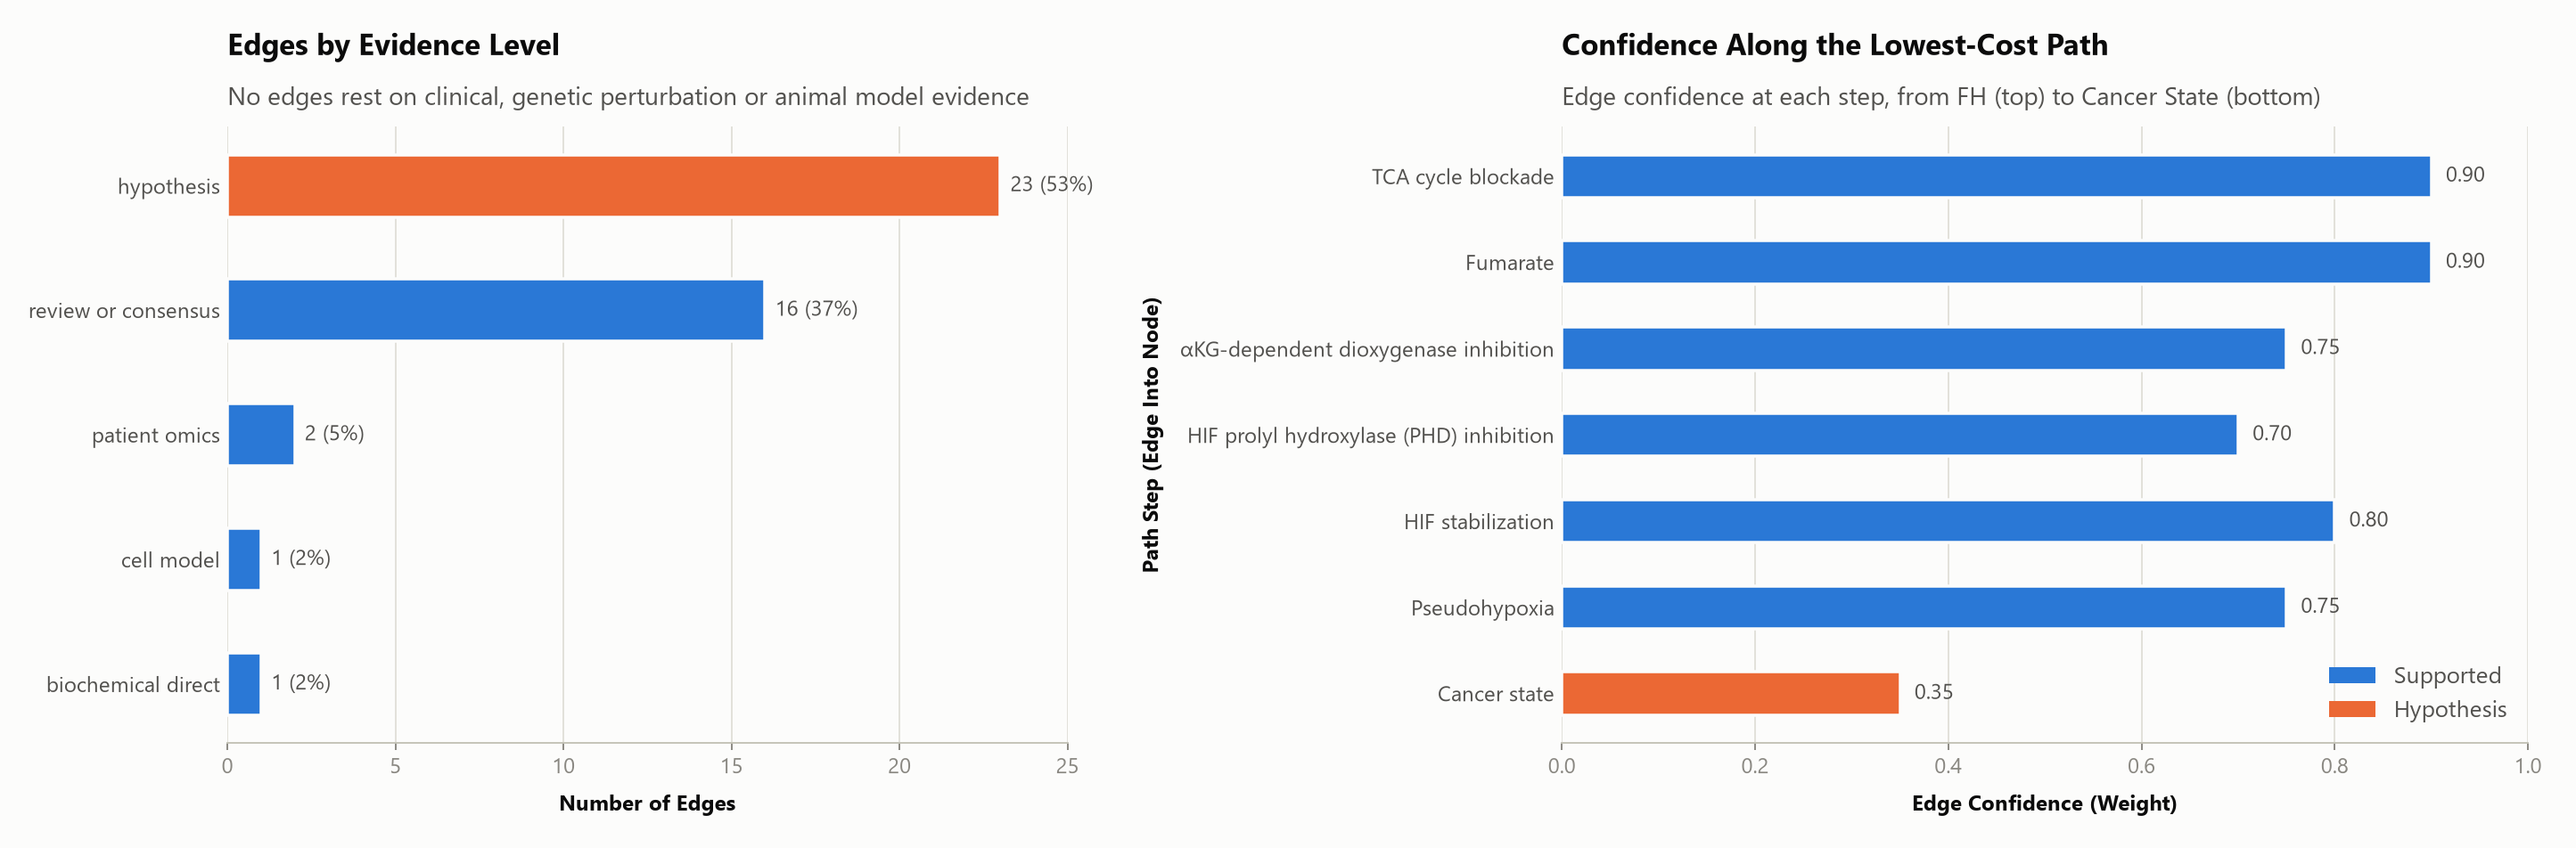
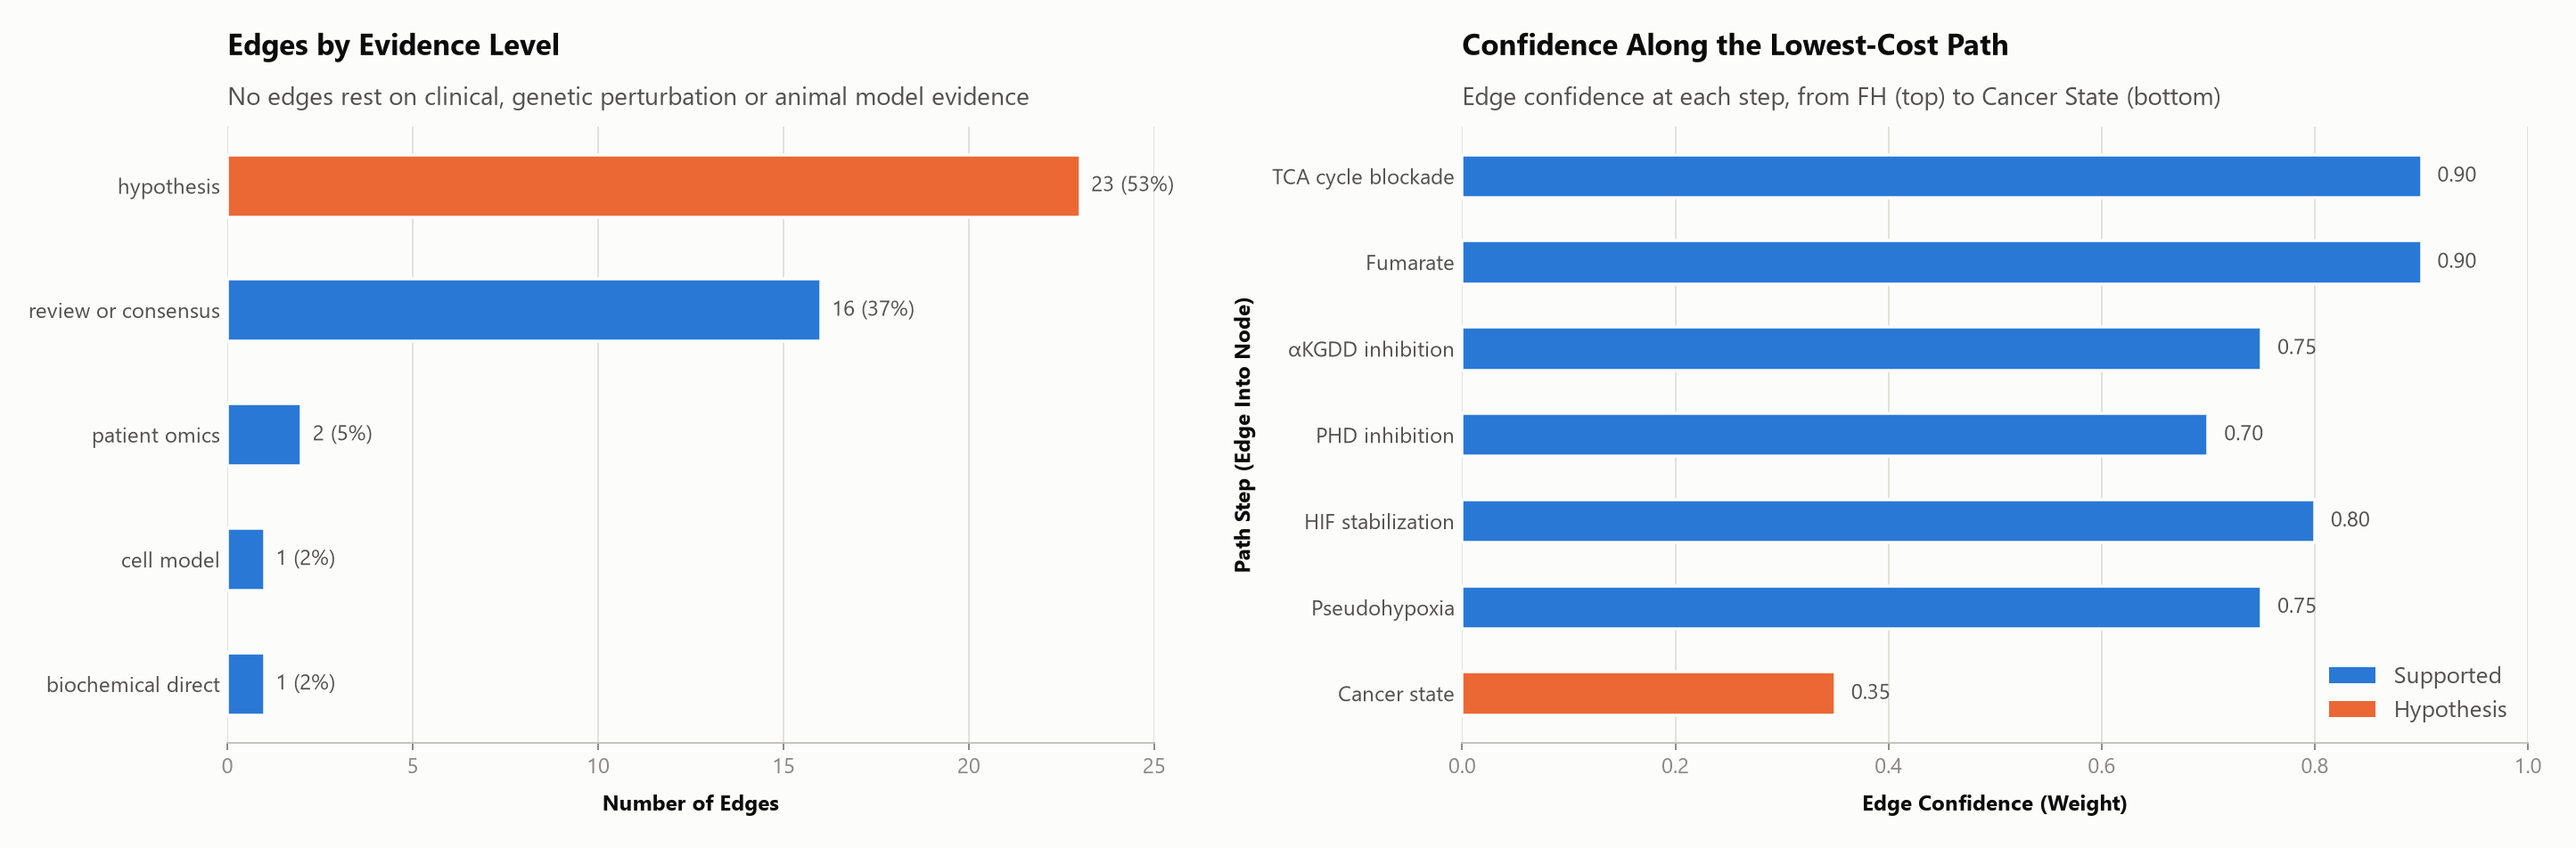
Abbreviated chart labels and explorer recenter button

diff --git a/docs/index.html b/docs/index.html
@@ -35,6 +35,8 @@ button { cursor:pointer; }
 button:hover, select:hover { border-color: var(--muted); }
 :focus-visible { outline: 2px solid var(--c-molecular); outline-offset: 2px; }
 main { display:grid; grid-template-columns: 1fr 340px; gap:12px; padding: 0 16px 16px; max-width:1400px; margin:0 auto; }
+.cywrap { position: relative; }
+.recenter { position:absolute; top:10px; right:10px; z-index:2; font-size:13px; }
 #cy { height: 82vh; min-height: 620px; background: var(--surface); border:1px solid var(--grid); border-radius:10px; }
 aside { background: var(--surface); border:1px solid var(--grid); border-radius:10px; padding: 14px; max-height: 82vh; min-height:620px; overflow:auto; font-size:13.5px; }
 aside h2 { font-size: 15px; margin: 0 0 6px; }
@@ -79,7 +81,7 @@ footer { max-width:1400px; margin:0 auto; padding: 0 16px 28px; color: var(--mut
 <div class="legend" id="legend" aria-label="Legend"></div>
 
 <main>
-  <div id="cy" role="img" aria-label="Interactive graph of FH-loss mechanisms. A table of all edges follows below."></div>
+  <div class="cywrap"><div id="cy" role="img" aria-label="Interactive graph of FH-loss mechanisms. A table of all edges follows below."></div><button type="button" id="recenter" class="recenter" title="Fit the whole graph in view">Recenter</button></div>
   <aside id="panel" aria-live="polite"></aside>
 </main>
 
@@ -138,12 +140,13 @@ footer { max-width:1400px; margin:0 auto; padding: 0 16px 28px; color: var(--mut
       { selector: 'edge.on', style: { 'line-color': hi, 'target-arrow-color': hi, 'opacity': 1, 'z-index': 20, 'width': 'mapData(weight, 0.2, 0.9, 2.5, 5.5)' } },
       { selector: 'node.on', style: { 'border-width': 3.5, 'opacity': 1 } },
       { selector: 'node:selected', style: { 'overlay-opacity': 0 } },
-      { selector: 'edge.nbr', style: { 'opacity': 0.95, 'z-index': 15 } },
+      { selector: 'edge.nbr', style: { 'opacity': 1, 'z-index': 25, 'line-color': col('molecular'), 'target-arrow-color': col('molecular') } },
       { selector: 'node.nbr', style: { 'opacity': 1 } },
       { selector: 'node.sel', style: { 'opacity': 1, 'border-width': 5, 'underlay-color': hi, 'underlay-opacity': 0.18, 'underlay-padding': 8, 'underlay-shape': 'round-rectangle', 'z-index': 30 } },
       { selector: 'edge.faded', style: { 'display': 'none' } },
     ];
-    for (const g of Object.keys(D.groupLabels)) s.push({ selector: `node[group = "${g}"]`, style: { 'background-color': col(g), 'border-color': col(g) } });
+    for (const g of Object.keys(D.groupLabels)) s.push({ selector: 
+ode[group = "${g}"]`, style: { 'background-color': col(g), 'border-color': col(g) } });
     return s;
   }
 
@@ -226,6 +229,7 @@ footer { max-width:1400px; margin:0 auto; padding: 0 16px 28px; color: var(--mut
   tsel.onchange = () => { fillRanks(); showPath(); };
   rsel.onchange = showPath;
   $('fade').onchange = () => { applyFade(); };
+  $('recenter').onclick = () => { if (cy) cy.fit(undefined, 30); };
   $('reset').onclick = () => { if (cy) cy.fit(undefined, 30); tsel.value = D.defaultTarget; fillRanks(); showPath(); };
 
   const mq = window.matchMedia('(prefers-color-scheme: dark)');

diff --git a/src/fhrcc_mechanismkg/web.py b/src/fhrcc_mechanismkg/web.py
@@ -131,6 +131,8 @@ button { cursor:pointer; }
 button:hover, select:hover { border-color: var(--muted); }
 :focus-visible { outline: 2px solid var(--c-molecular); outline-offset: 2px; }
 main { display:grid; grid-template-columns: 1fr 340px; gap:12px; padding: 0 16px 16px; max-width:1400px; margin:0 auto; }
+.cywrap { position: relative; }
+.recenter { position:absolute; top:10px; right:10px; z-index:2; font-size:13px; }
 #cy { height: 82vh; min-height: 620px; background: var(--surface); border:1px solid var(--grid); border-radius:10px; }
 aside { background: var(--surface); border:1px solid var(--grid); border-radius:10px; padding: 14px; max-height: 82vh; min-height:620px; overflow:auto; font-size:13.5px; }
 aside h2 { font-size: 15px; margin: 0 0 6px; }
@@ -175,7 +177,7 @@ footer { max-width:1400px; margin:0 auto; padding: 0 16px 28px; color: var(--mut
 <div class="legend" id="legend" aria-label="Legend"></div>
 
 <main>
-  <div id="cy" role="img" aria-label="Interactive graph of FH-loss mechanisms. A table of all edges follows below."></div>
+  <div class="cywrap"><div id="cy" role="img" aria-label="Interactive graph of FH-loss mechanisms. A table of all edges follows below."></div><button type="button" id="recenter" class="recenter" title="Fit the whole graph in view">Recenter</button></div>
   <aside id="panel" aria-live="polite"></aside>
 </main>
 
@@ -234,12 +236,13 @@ footer { max-width:1400px; margin:0 auto; padding: 0 16px 28px; color: var(--mut
       { selector: 'edge.on', style: { 'line-color': hi, 'target-arrow-color': hi, 'opacity': 1, 'z-index': 20, 'width': 'mapData(weight, 0.2, 0.9, 2.5, 5.5)' } },
       { selector: 'node.on', style: { 'border-width': 3.5, 'opacity': 1 } },
       { selector: 'node:selected', style: { 'overlay-opacity': 0 } },
-      { selector: 'edge.nbr', style: { 'opacity': 0.95, 'z-index': 15 } },
+      { selector: 'edge.nbr', style: { 'opacity': 1, 'z-index': 25, 'line-color': col('molecular'), 'target-arrow-color': col('molecular') } },
       { selector: 'node.nbr', style: { 'opacity': 1 } },
       { selector: 'node.sel', style: { 'opacity': 1, 'border-width': 5, 'underlay-color': hi, 'underlay-opacity': 0.18, 'underlay-padding': 8, 'underlay-shape': 'round-rectangle', 'z-index': 30 } },
       { selector: 'edge.faded', style: { 'display': 'none' } },
     ];
-    for (const g of Object.keys(D.groupLabels)) s.push({ selector: `node[group = "${g}"]`, style: { 'background-color': col(g), 'border-color': col(g) } });
+    for (const g of Object.keys(D.groupLabels)) s.push({ selector: 
+ode[group = "${g}"]`, style: { 'background-color': col(g), 'border-color': col(g) } });
     return s;
   }
 
@@ -322,6 +325,7 @@ footer { max-width:1400px; margin:0 auto; padding: 0 16px 28px; color: var(--mut
   tsel.onchange = () => { fillRanks(); showPath(); };
   rsel.onchange = showPath;
   $('fade').onchange = () => { applyFade(); };
+  $('recenter').onclick = () => { if (cy) cy.fit(undefined, 30); };
   $('reset').onclick = () => { if (cy) cy.fit(undefined, 30); tsel.value = D.defaultTarget; fillRanks(); showPath(); };
 
   const mq = window.matchMedia('(prefers-color-scheme: dark)');
@@ -342,6 +346,7 @@ footer { max-width:1400px; margin:0 auto; padding: 0 16px 28px; color: var(--mut
 </body>
 </html>
 """
+
 
 
 

diff --git a/src/fhrcc_mechanismkg/viz.py b/src/fhrcc_mechanismkg/viz.py
@@ -249,8 +249,25 @@ def draw_overview(
     fig.subplots_adjust(left = 0, right = 1, top = 0.945, bottom = 0.075)
     _save(fig, out_path)
 
-def _short(graph: Graph, node_id: str, width: int = 34) -> str:
-    return textwrap.shorten(graph.nodes[node_id].name, width = width, placeholder = "…")
+# Chart labels use standard abbreviations (full names appear in the graph overview) so nothing is truncated
+SHORT_NAMES: Dict[str, str] = {
+    "process:akg_dioxygenase_inhibition": "αKGDD inhibition",
+    "process:PHD_inhibition": "PHD inhibition",
+    "process:TET_KDM_inhibition": "TET/KDM inhibition",
+    "process:DNA_hypermethylation": "DNA hypermethylation",
+    "phenotype:CIMP": "CIMP",
+    "process:genomic_instability": "Genomic instability",
+    "phenotype:immunosuppressive_TME": "Immunosuppressive TME",
+    "pathway:NRF2_ARE": "NRF2-ARE response",
+    "process:mtDNA_leakage": "mtDNA leakage",
+    "pathway:cGAS_STING": "cGAS-STING sensing",
+    "pathway:RTK_signaling": "RTK signaling",
+    "pathway:PI3K_AKT_mTOR": "PI3K-AKT-mTOR",
+}
+
+
+def _short(graph: Graph, node_id: str, width: int = 0) -> str:
+    return SHORT_NAMES.get(node_id, graph.nodes[node_id].name)
 
 
 def _clean_axes(ax) -> None:
@@ -372,7 +389,7 @@ def draw_evidence_audit(graph: Graph, best: PathResult, out_path: str, source_na
     for y, s in zip(ypos2, steps):
         a2.text(s.edge.weight + 0.015, y, f"{s.edge.weight:.2f}", va = "center", fontsize = LABEL_PT, color = INK2)
     a2.set_yticks(ypos2)
-    a2.set_yticklabels([graph.nodes[s.edge.object].name for s in steps])
+    a2.set_yticklabels([_short(graph, s.edge.object) for s in steps])
     a2.set_xlim(0, 1.0)
     a2.set_xlabel("Edge Confidence (Weight)", labelpad = 8)
     a2.set_ylabel("Path Step (Edge Into Node)", labelpad = 8)
@@ -390,6 +407,8 @@ def _save(fig, out_path: str) -> None:
     import matplotlib.pyplot as plt
 
     plt.close(fig)
+
+
 
 
 
